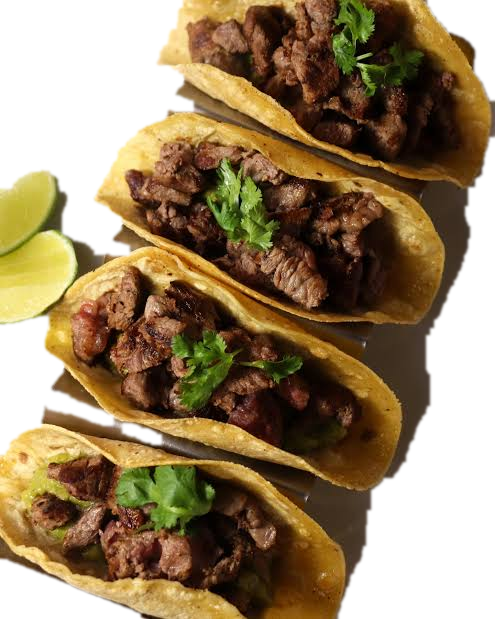
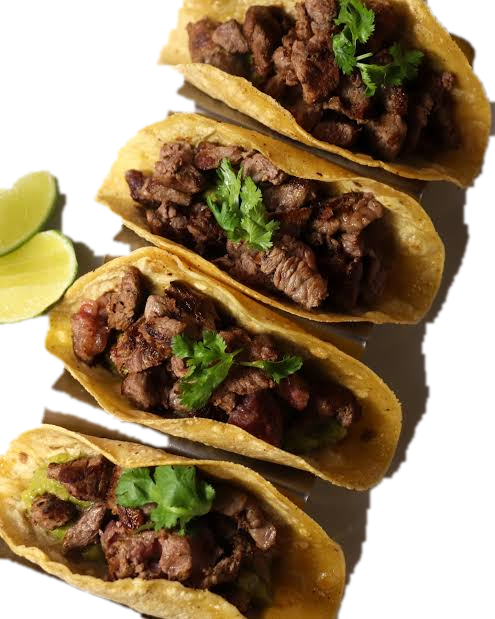
CUU Tacos: promo flyers 1080x1920 and 1080x1080 based on reference layout
Claude-Session: https://claude.ai/code/session_014CHHJhy7rNb7XQQ2cW4zXW

diff --git a/flyers/cuu-tacos/promo.html b/flyers/cuu-tacos/promo.html
@@ -1,0 +1,127 @@
+<!DOCTYPE html>
+<html lang="es-MX">
+<head>
+<meta charset="UTF-8">
+<title>CUU Tacos — Promo</title>
+<link rel="preconnect" href="https://fonts.googleapis.com">
+<link href="https://fonts.googleapis.com/css2?family=Anton&family=Pacifico&family=Oswald:wght@400;500;600&display=swap" rel="stylesheet">
+<style>
+  /* Acento: cambia --accent por el color de CUU Beauty */
+  :root {
+    --accent: #FA6ABE;
+    --accent-2: #C88DF0;
+    --ink: #1A0820;
+    --white: #FFFFFF;
+  }
+  * { margin: 0; padding: 0; box-sizing: border-box; }
+  body { background: #111; }
+  .flyer { position: relative; overflow: hidden; color: var(--white); font-family: 'Oswald', sans-serif;
+    background:
+      radial-gradient(ellipse 70% 45% at 50% 38%, rgba(250,106,190,.35), transparent 70%),
+      radial-gradient(ellipse 60% 40% at 50% 85%, rgba(200,141,240,.28), transparent 70%),
+      linear-gradient(160deg, #2A0B33 0%, #1A0820 50%, #12061A 100%); }
+  .story { width: 1080px; height: 1920px; }
+  .square { width: 1080px; height: 1080px; }
+  .abs { position: absolute; }
+  .waves { inset: 0; width: 100%; height: 100%; opacity: .5; }
+
+  /* Bloque del título, inclinado como la referencia */
+  .title { left: 50%; transform: translateX(-50%) rotate(-7deg); display: grid; grid-template-columns: auto auto; column-gap: 26px; align-items: end; }
+  .title .pre { grid-column: 1 / 3; font-weight: 500; letter-spacing: 6px; text-transform: uppercase; }
+  .title .pre b { font-family: 'Pacifico', cursive; font-weight: 400; letter-spacing: 0; color: var(--accent); text-transform: none; }
+  .title .big { font-family: 'Anton', sans-serif; line-height: .9; text-transform: uppercase; }
+  .title .side { writing-mode: vertical-rl; transform: rotate(180deg); font-weight: 600; letter-spacing: 4px; line-height: 1.15; text-transform: uppercase; }
+  .title .band { grid-column: 1 / 3; background: var(--accent); color: var(--ink); font-family: 'Anton', sans-serif; line-height: 1; text-transform: uppercase; text-align: center;
+    box-shadow: 0 0 60px rgba(250,106,190,.45); }
+
+  .vert { top: 50%; font-weight: 500; letter-spacing: 9px; text-transform: uppercase; white-space: nowrap; color: rgba(255,255,255,.85); }
+  .vert.l { left: 0; transform: translate(-50%, -50%) rotate(-90deg) translateY(40px); }
+  .vert.r { right: 0; transform: translate(50%, -50%) rotate(90deg) translateY(40px); }
+  .vert b { color: var(--accent); font-weight: 600; }
+
+  .tacos { left: 50%; transform: translateX(-50%); filter: drop-shadow(0 40px 40px rgba(0,0,0,.7));
+    -webkit-mask-image: linear-gradient(to right, transparent 0%, #000 12%, #000 90%, transparent 100%), linear-gradient(to bottom, #000 82%, transparent 100%);
+    -webkit-mask-composite: source-in;
+            mask-image: linear-gradient(to right, transparent 0%, #000 12%, #000 90%, transparent 100%), linear-gradient(to bottom, #000 82%, transparent 100%);
+            mask-composite: intersect; }
+  .floor { left: 50%; transform: translateX(-50%); width: 900px; height: 120px; border-radius: 50%;
+    background: radial-gradient(ellipse at center, rgba(0,0,0,.6), transparent 70%); }
+
+  .bottom { left: 0; right: 0; text-align: center; font-weight: 400; letter-spacing: 6px; text-transform: uppercase; }
+  .bottom b { color: var(--accent); font-weight: 600; }
+  .logo { left: 0; right: 0; text-align: center; line-height: .85; }
+  .logo .cuu { font-family: 'Anton', sans-serif; color: var(--white); letter-spacing: 3px; text-shadow: 5px 5px 0 var(--accent); }
+  .logo .t { display: inline-block; font-family: 'Pacifico', cursive; color: var(--accent); transform: rotate(-5deg); }
+
+  /* ---- 1080 x 1920 ---- */
+  .story .logo { top: 90px; } .story .logo .cuu { font-size: 120px; } .story .logo .t { font-size: 70px; margin-top: -26px; }
+  .story .title { top: 360px; }
+  .story .title .pre { font-size: 38px; margin-bottom: 14px; } .story .title .pre b { font-size: 46px; }
+  .story .title .big { font-size: 330px; }
+  .story .title .side { font-size: 40px; padding-bottom: 18px; }
+  .story .title .band { font-size: 196px; padding: 8px 34px 14px; margin-top: 12px; }
+  .story .vert { font-size: 30px; }
+  .story .tacos { top: 1040px; width: 860px; }
+  .story .floor { top: 1640px; }
+  .story .cuts { top: 1730px; font-size: 54px; letter-spacing: 10px; }
+  .story .bottom.last { top: 1825px; font-size: 34px; }
+
+  /* ---- 1080 x 1080 ---- */
+  .square .title { top: 60px; }
+  .square .title .pre { font-size: 30px; margin-bottom: 8px; } .square .title .pre b { font-size: 38px; }
+  .square .title .big { font-size: 170px; }
+  .square .title .side { font-size: 28px; padding-bottom: 10px; }
+  .square .title .band { font-size: 104px; padding: 4px 26px 8px; margin-top: 8px; }
+  .square .vert { font-size: 22px; letter-spacing: 7px; }
+  .square .vert.l { transform: translate(-50%, -50%) rotate(-90deg) translateY(50px); }
+  .square .vert.r { transform: translate(50%, -50%) rotate(90deg) translateY(50px); }
+  .square .tacos { top: 520px; width: 590px; }
+  .square .floor { top: 930px; width: 700px; height: 80px; }
+  .square .cuts { display: none; }
+  .square .bottom.last { top: 1012px; font-size: 26px; }
+</style>
+</head>
+<body>
+<div class="flyer" id="f">
+  <svg class="abs waves" id="waves" preserveAspectRatio="none"></svg>
+
+  <div class="abs logo"><div class="cuu">CUU</div><span class="t">Tacos</span></div>
+
+  <div class="abs title">
+    <div class="pre"><b>CUU Tacos</b> presenta</div>
+    <div class="big">Tacos</div>
+    <div class="side">Jueves a domingo<br>6 PM – 12 AM</div>
+    <div class="band">De asada</div>
+  </div>
+
+  <div class="abs vert l">Av. Zaragoza <b>#12</b> · Chihuahua</div>
+  <div class="abs vert r">¡Ya <b>abrimos</b>!</div>
+
+  <div class="abs floor"></div>
+  <img class="abs tacos" src="tacos-row.png" alt="Tacos de carne asada">
+
+  <div class="abs bottom cuts">Bistec · <b>Sirloin</b> · Arrachera</div>
+  <div class="abs bottom last">¡Pura <b>carne selecta</b>! · Jueves a domingo</div>
+</div>
+<script>
+  const sq = location.hash === '#square';
+  const f = document.getElementById('f');
+  f.classList.add(sq ? 'square' : 'story');
+  if (sq) document.querySelector('.logo').remove();
+  // líneas onduladas tipo topográfico
+  const W = 1080, H = sq ? 1080 : 1920, svg = document.getElementById('waves');
+  svg.setAttribute('viewBox', `0 0 ${W} ${H}`);
+  let d = '';
+  for (let i = -4; i < H / 34 + 4; i++) {
+    const y0 = i * 34;
+    let p = `M -20 ${y0}`;
+    for (let x = -20; x <= W + 20; x += 20) {
+      const y = y0 + 22 * Math.sin(x / 140 + i * .35) + 14 * Math.sin(x / 57 - i * .8);
+      p += ` L ${x} ${y.toFixed(1)}`;
+    }
+    d += `<path d="${p}" fill="none" stroke="rgba(250,106,190,.22)" stroke-width="1.4"/>`;
+  }
+  svg.innerHTML = d;
+</script>
+</body>
+</html>
